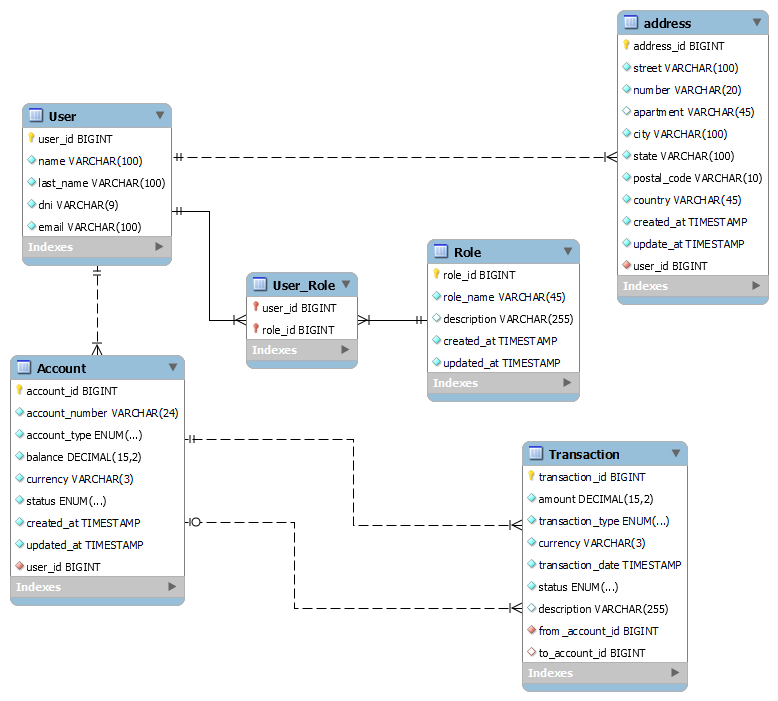
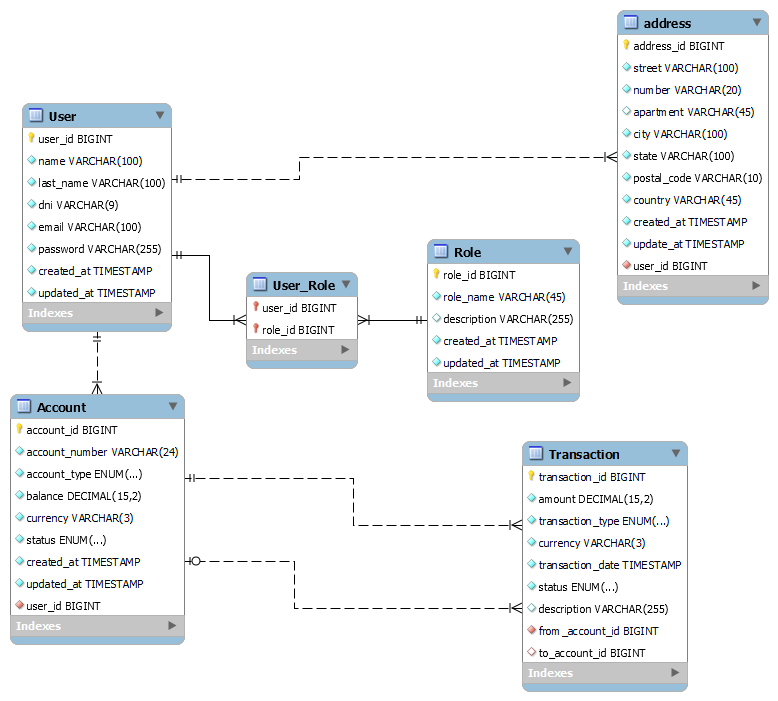
feat: create User and Role entity and define the relationship between them and add spring security and jwt dependencies.

Changed region(s): [[0.0, 0.3295, 0.2468, 0.9287], [0.2468, 0.7789, 0.2776, 0.8088]]

diff --git a/src/main/java/com/simplebank/simplebankapp/persistence/entity/User.java b/src/main/java/com/simplebank/simplebankapp/persistence/entity/User.java
@@ -1,0 +1,80 @@
+package com.simplebank.simplebankapp.persistence.entity;
+
+import jakarta.persistence.*;
+import lombok.AllArgsConstructor;
+import lombok.Builder;
+import lombok.Data;
+import lombok.NoArgsConstructor;
+import org.springframework.security.core.GrantedAuthority;
+import org.springframework.security.core.authority.SimpleGrantedAuthority;
+import org.springframework.security.core.userdetails.UserDetails;
+
+import java.time.LocalDateTime;
+import java.util.Collection;
+import java.util.HashSet;
+import java.util.Set;
+import java.util.stream.Collectors;
+
+@Entity
+@Data
+@Builder
+@NoArgsConstructor
+@AllArgsConstructor
+public class User implements UserDetails {
+    @Id
+    @GeneratedValue(strategy = GenerationType.IDENTITY)
+    private Long userId;
+    @Column(nullable = false)
+    private String name;
+    @Column(nullable = false)
+    private String lastName;
+    @Column(unique = true, nullable = false)
+    private String dni;
+    @Column(unique = true, nullable = false)
+    private String email;
+    @Column(nullable = false)
+    private String password;
+    @Column(nullable = false)
+    private LocalDateTime createdAt;
+    @Column(nullable = false)
+    private LocalDateTime updatedAt;
+
+    @ManyToMany
+    @JoinTable(
+            name = "user_role",
+            joinColumns = @JoinColumn(name = "user_id"),
+            inverseJoinColumns = @JoinColumn(name = "role_id"))
+    Set<Role> roles = new HashSet<>();
+
+    @Override
+    public Collection<? extends GrantedAuthority> getAuthorities() {
+        return roles.stream()
+                .map(role -> new SimpleGrantedAuthority(role.getRoleName()))
+                .collect(Collectors.toSet());
+    }
+
+    @Override
+    public String getUsername() {
+        return this.email;
+    }
+
+    @Override
+    public boolean isAccountNonExpired() {
+        return true;
+    }
+
+    @Override
+    public boolean isAccountNonLocked() {
+        return true;
+    }
+
+    @Override
+    public boolean isCredentialsNonExpired() {
+        return true;
+    }
+
+    @Override
+    public boolean isEnabled() {
+        return true;
+    }
+}

diff --git a/src/main/java/com/simplebank/simplebankapp/persistence/entity/Role.java b/src/main/java/com/simplebank/simplebankapp/persistence/entity/Role.java
@@ -1,0 +1,32 @@
+package com.simplebank.simplebankapp.persistence.entity;
+
+import jakarta.persistence.*;
+import lombok.AllArgsConstructor;
+import lombok.Builder;
+import lombok.Data;
+import lombok.NoArgsConstructor;
+
+import java.time.LocalDateTime;
+import java.util.HashSet;
+import java.util.Set;
+
+@Entity
+@Data
+@Builder
+@NoArgsConstructor
+@AllArgsConstructor
+public class Role {
+    @Id
+    @GeneratedValue(strategy = GenerationType.IDENTITY)
+    private Long roleId;
+    @Column(unique = true, nullable = false)
+    private String roleName;
+    private String description;
+    @Column(nullable = false)
+    private LocalDateTime createdAt;
+    @Column(nullable = false)
+    private LocalDateTime updatedAt;
+
+    @ManyToMany(mappedBy = "roles")
+    Set<User> users = new HashSet<>();
+}
